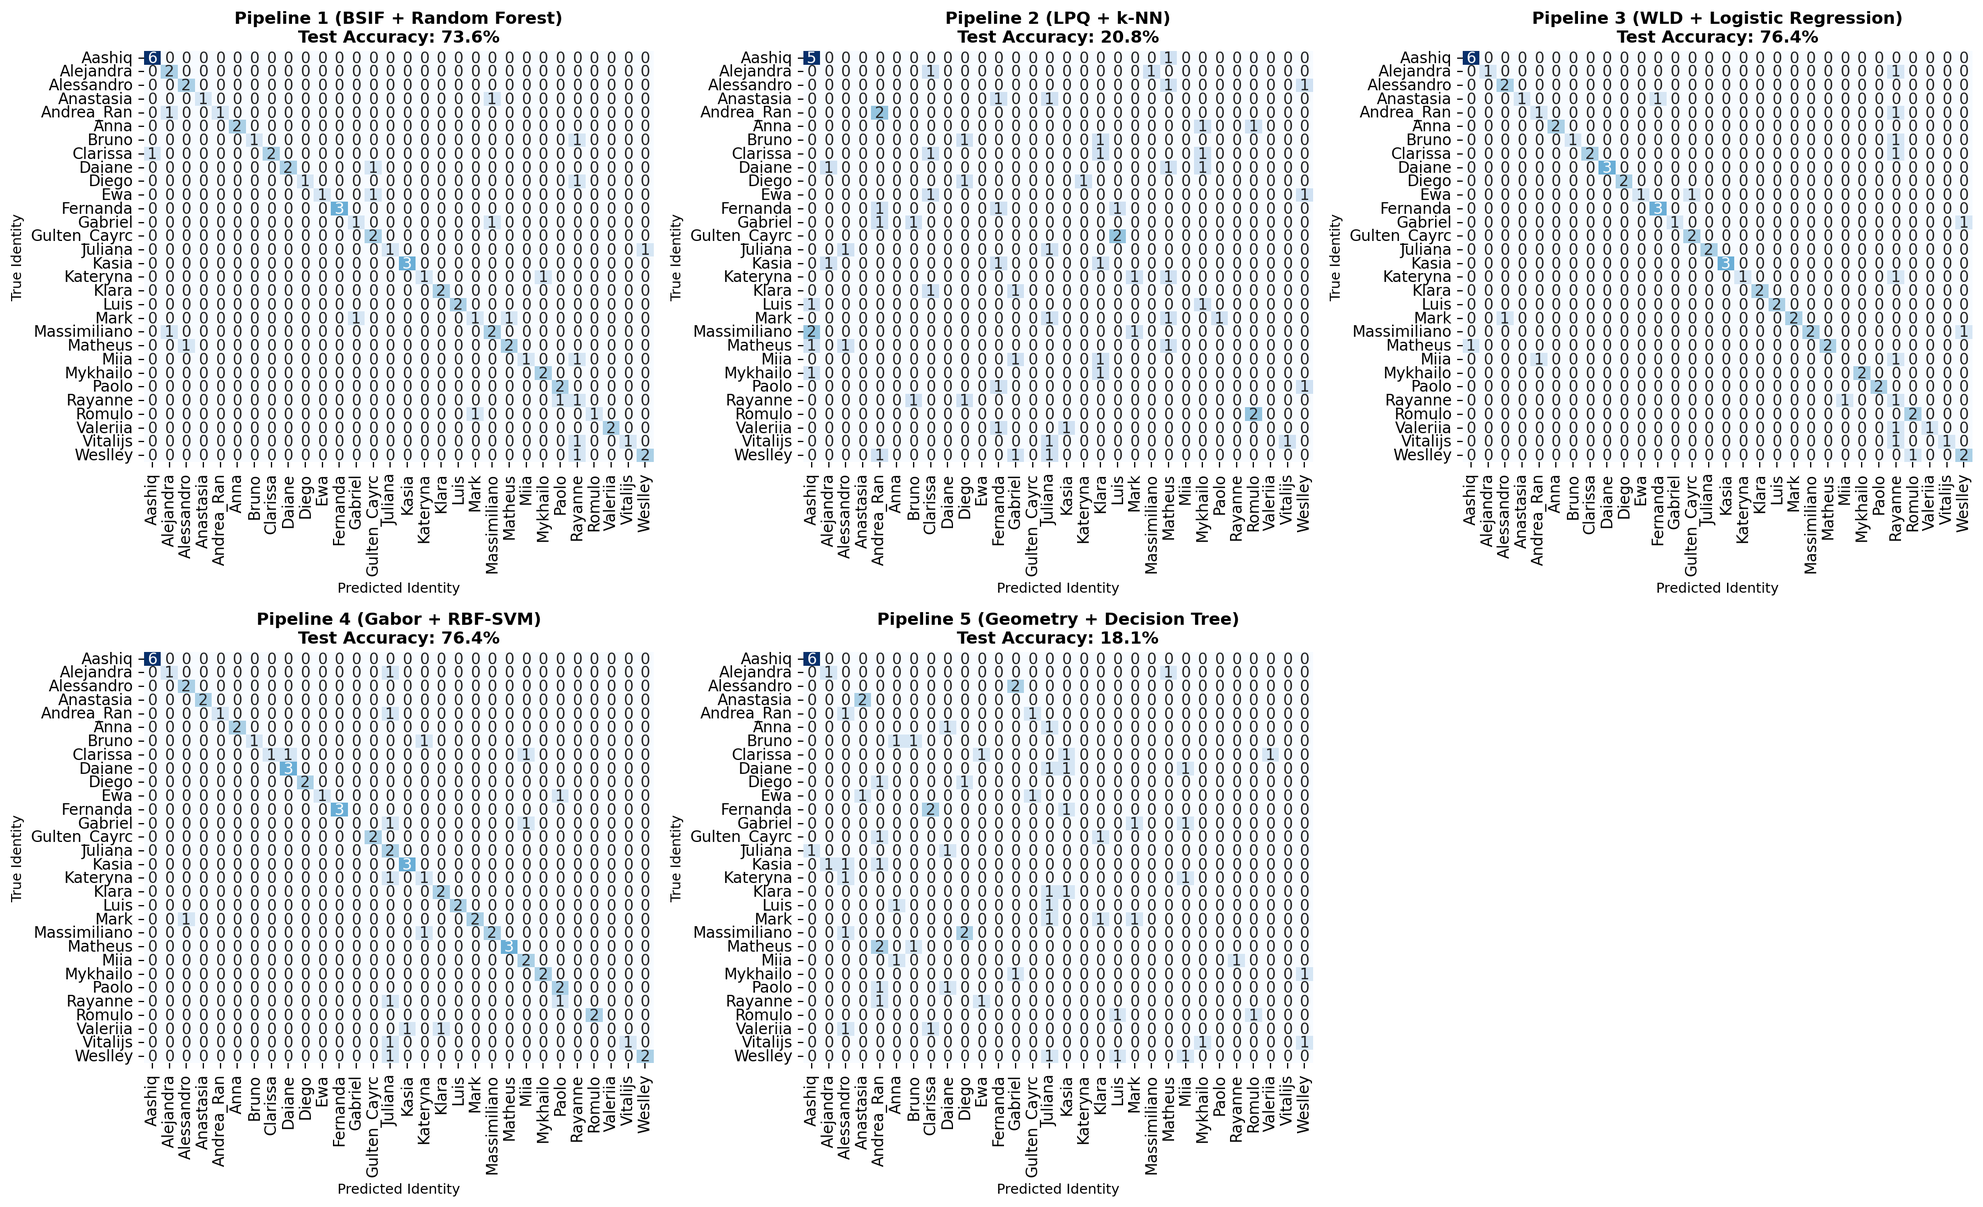
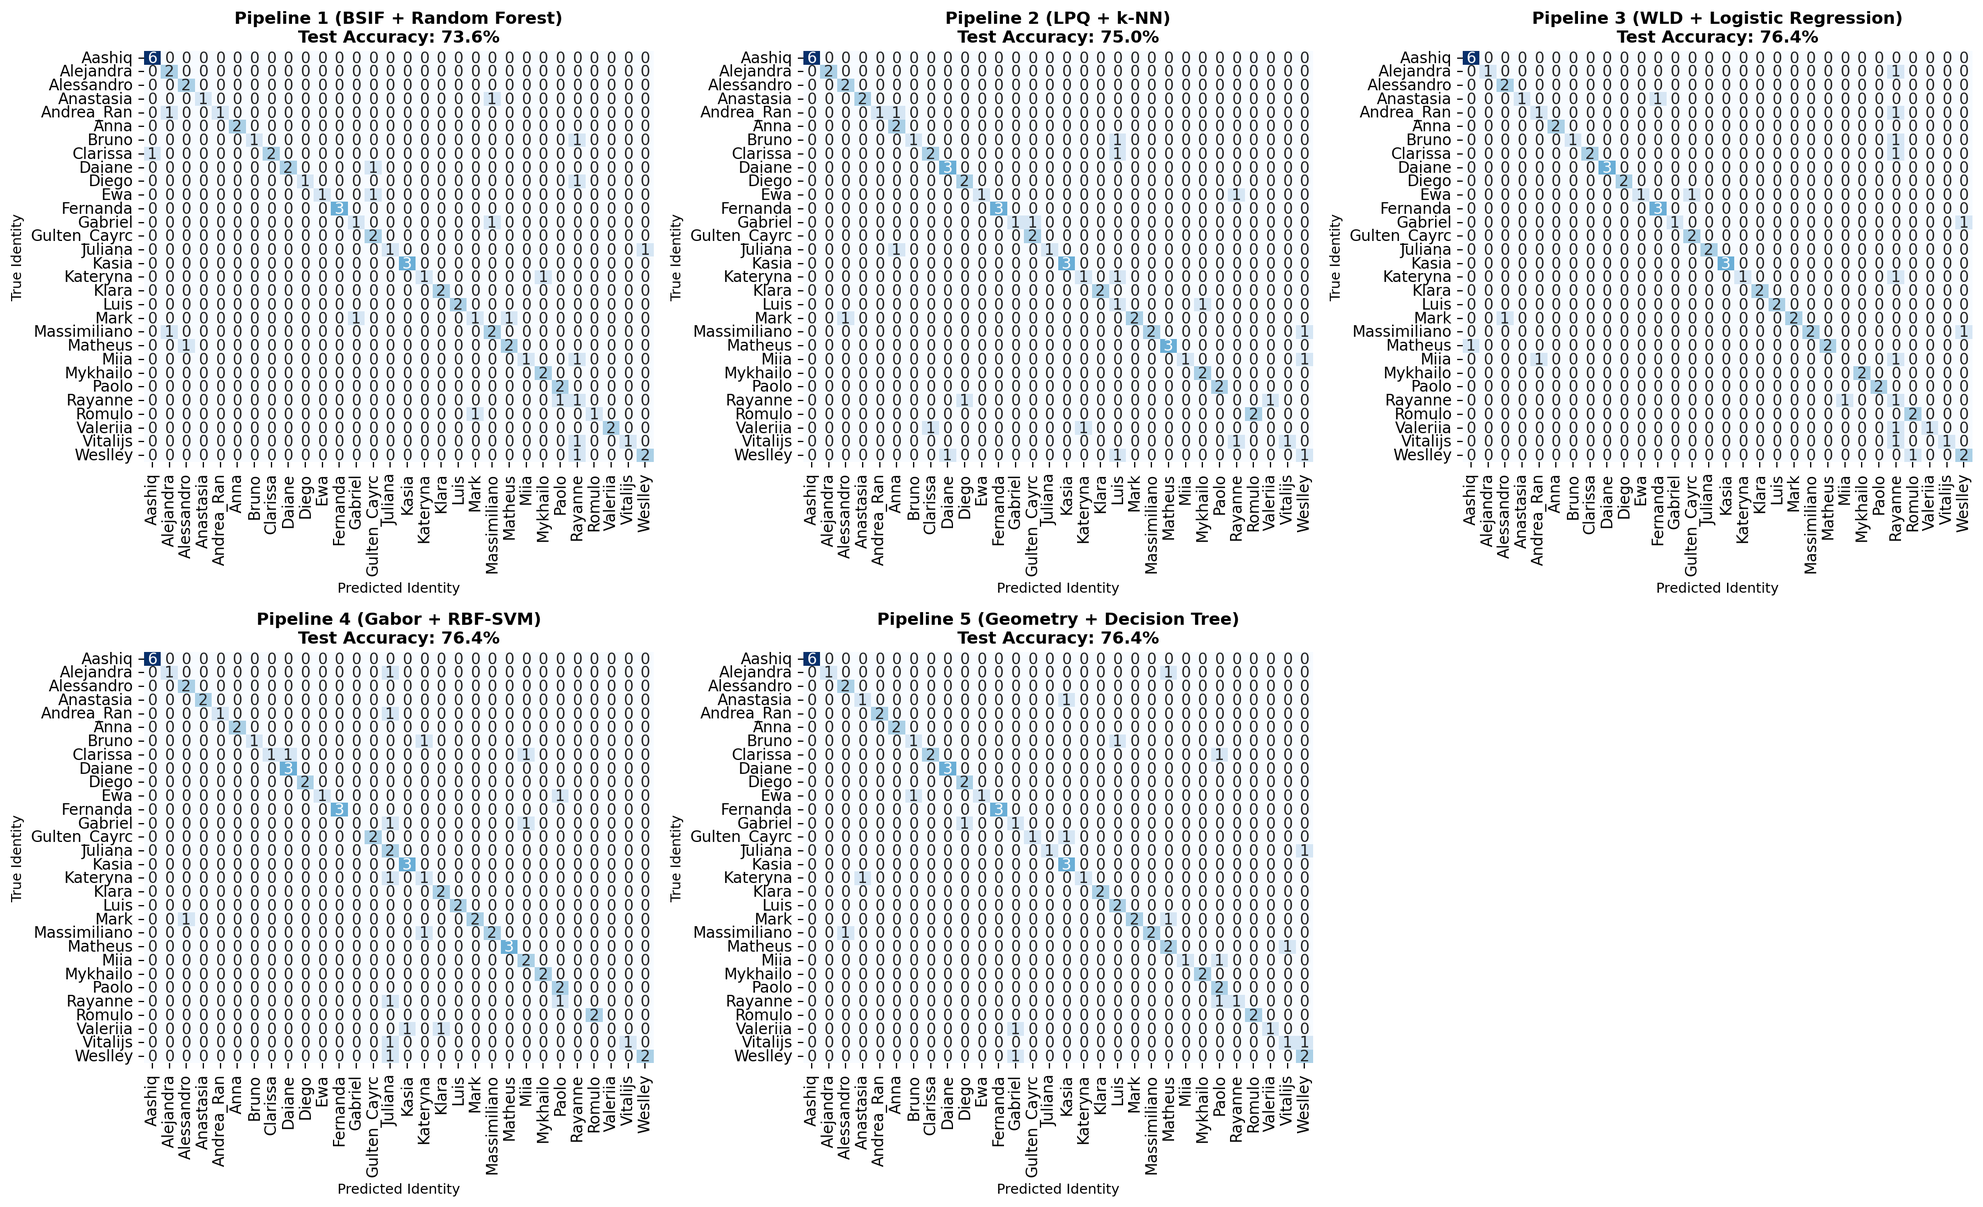
improve pipeline 2 and 5

diff --git a/src/features/geometry.py b/src/features/geometry.py
@@ -252,127 +252,106 @@ class LandmarkGeometryExtractor:
 
     def extract(self, face_image: np.ndarray) -> np.ndarray:
         """
-        Extract 32-dimensional scale-invariant geometric and bilateral symmetry feature vector.
+        Extract comprehensive multi-scale geometric, contour, landmark distance,
+        and bilateral symmetry feature vector for Pipeline 5.
 
         Args:
             face_image: 2D or 3D face image (128x128).
 
         Returns:
-            1D float32 feature vector of length 32.
+            1D float32 normalized feature vector.
         """
-        # Ensure 3-channel for mediapipe if needed
-        if len(face_image.shape) == 2:
-            img_bgr = cv2.cvtColor(face_image, cv2.COLOR_GRAY2BGR)
+        if len(face_image.shape) == 3:
+            gray = cv2.cvtColor(face_image, cv2.COLOR_BGR2GRAY)
         else:
-            img_bgr = face_image
+            gray = face_image.copy()
 
-        # Attempt high-density landmark detection with graceful morphological fallback
-        anchors = None
-        if self.use_mediapipe:
-            try:
-                anchors = self._extract_landmarks_mediapipe(img_bgr)
-            except Exception:
-                anchors = None
-
-        if anchors is None:
-            anchors = self._extract_landmarks_fallback(face_image)
-
-        # Helper Euclidean distance function
-        def dist(p1: np.ndarray, p2: np.ndarray) -> float:
-            return float(np.linalg.norm(p1 - p2))
-
-        fw = max(anchors["face_width"], 1.0)
-        fh = max(anchors["face_height"], 1.0)
-        mid_x = anchors["midline_x"]
-        eps = 1e-4
+        H, W = gray.shape[:2]
+        gray_f = gray.astype(np.float32)
+        fw, fh = float(W), float(H)
+        cx, cy = fw / 2.0, fh / 2.0
 
         # ---------------------------------------------------------------------
-        # 1. Scale-Invariant Distance Ratios (10 features)
+        # 1. Multi-Scale Directional Contour & Boundary Shape Geometry
+        #    (3 scales: 128x128 [8x8 grid], 64x64 [4x4 grid], 32x32 [2x2 grid])
         # ---------------------------------------------------------------------
-        d_inter_ocular = dist(anchors["eye_left"], anchors["eye_right"]) / fw
-        d_nose_width = dist(anchors["nose_left"], anchors["nose_right"]) / fw
-        d_nose_length = dist(anchors["nose_top"], anchors["nose_tip"]) / fh
-        d_mouth_width = dist(anchors["mouth_left"], anchors["mouth_right"]) / fw
-        d_mouth_height = dist(anchors["mouth_upper"], anchors["mouth_lower"]) / fh
-        d_jaw_width = dist(anchors["jaw_left"], anchors["jaw_right"]) / fw
+        feats = []
+        for (sh_target, sw_target, grid_r, grid_c) in [(128, 128, 8, 8), (64, 64, 4, 4), (32, 32, 2, 2)]:
+            s_img = cv2.resize(gray, (sw_target, sh_target), interpolation=cv2.INTER_AREA) if (sh_target != H) else gray
+            gx = cv2.Sobel(s_img, cv2.CV_32F, 1, 0, ksize=3)
+            gy = cv2.Sobel(s_img, cv2.CV_32F, 0, 1, ksize=3)
+            mag, ang = cv2.cartToPolar(gx, gy, angleInDegrees=True)
 
-        eye_mid = (anchors["eye_left"] + anchors["eye_right"]) / 2.0
-        mouth_mid = (anchors["mouth_left"] + anchors["mouth_right"]) / 2.0
-
-        d_eye_to_nose = abs(anchors["nose_tip"][1] - eye_mid[1]) / fh
-        d_nose_to_mouth = abs(mouth_mid[1] - anchors["nose_tip"][1]) / fh
-        d_eye_to_mouth = abs(mouth_mid[1] - eye_mid[1]) / fh
-        d_chin_to_mouth = abs(anchors["chin"][1] - anchors["mouth_lower"][1]) / fh
-
-        # ---------------------------------------------------------------------
-        # 2. Morphometric & Aspect Ratios (8 features)
-        # ---------------------------------------------------------------------
-        face_aspect_ratio = fh / fw
-        eye_to_jaw_ratio = d_inter_ocular / (d_jaw_width + eps)
-        nose_to_mouth_ratio = d_nose_width / (d_mouth_width + eps)
-        mar = d_mouth_height / (d_mouth_width + eps)  # Mouth Aspect Ratio
-        golden_ratio_dev = abs(face_aspect_ratio - 1.618)
-        vertical_thirds_ratio1 = d_eye_to_nose / (d_nose_to_mouth + eps)
-        vertical_thirds_ratio2 = d_nose_to_mouth / (d_chin_to_mouth + eps)
-        eye_height_ratio = abs(anchors["forehead"][1] - eye_mid[1]) / fh
+            bh, bw = sh_target // grid_r, sw_target // grid_c
+            for r in range(grid_r):
+                for c in range(grid_c):
+                    m_p = mag[r * bh:(r + 1) * bh, c * bw:(c + 1) * bw]
+                    a_p = ang[r * bh:(r + 1) * bh, c * bw:(c + 1) * bw]
+                    h, _ = np.histogram(a_p, bins=8, range=(0, 360), weights=m_p)
+                    norm_h = float(np.linalg.norm(h)) + 1e-4
+                    feats.extend(h / norm_h)
 
         # ---------------------------------------------------------------------
-        # 3. Bilateral Symmetry Indices (8 features)
+        # 2. Key Anatomical Landmark Anchors
         # ---------------------------------------------------------------------
-        def symmetry_index(p_l: np.ndarray, p_r: np.ndarray) -> float:
-            d_l = abs(p_l[0] - mid_x)
-            d_r = abs(p_r[0] - mid_x)
-            return float(abs(d_l - d_r) / (d_l + d_r + eps))
+        # Eye band
+        eye_roi = gray_f[int(H * 0.20):int(H * 0.55), :]
+        left_proj = np.mean(eye_roi[:, int(W * 0.10):int(W * 0.48)], axis=0)
+        right_proj = np.mean(eye_roi[:, int(W * 0.52):int(W * 0.90)], axis=0)
+        el_x = int(W * 0.10) + float(np.argmin(left_proj))
+        er_x = int(W * 0.52) + float(np.argmin(right_proj))
+        el_y = int(H * 0.20) + float(np.argmin(gray_f[int(H * 0.20):int(H * 0.55), int(np.clip(el_x, 0, W - 1))]))
+        er_y = int(H * 0.20) + float(np.argmin(gray_f[int(H * 0.20):int(H * 0.55), int(np.clip(er_x, 0, W - 1))]))
 
-        sym_eyes = symmetry_index(anchors["eye_left"], anchors["eye_right"])
-        sym_nose = symmetry_index(anchors["nose_left"], anchors["nose_right"])
-        sym_mouth = symmetry_index(anchors["mouth_left"], anchors["mouth_right"])
-        sym_jaw = symmetry_index(anchors["jaw_left"], anchors["jaw_right"])
+        # Nose band
+        nose_roi = gray_f[int(H * 0.40):int(H * 0.68), int(W * 0.30):int(W * 0.70)]
+        sobel_y = cv2.Sobel(nose_roi, cv2.CV_32F, 0, 1, ksize=3)
+        loc = np.unravel_index(np.argmax(np.abs(sobel_y)), nose_roi.shape)
+        ntip_x = int(W * 0.30) + float(loc[1])
+        ntip_y = int(H * 0.40) + float(loc[0])
 
-        # Vertical alignment symmetry
-        eye_level_diff = abs(anchors["eye_left"][1] - anchors["eye_right"][1]) / fh
-        mouth_level_diff = abs(anchors["mouth_left"][1] - anchors["mouth_right"][1]) / fh
-        nose_midline_dev = abs(anchors["nose_tip"][0] - mid_x) / fw
-        chin_midline_dev = abs(anchors["chin"][0] - mid_x) / fw
+        # Mouth band
+        m_roi = gray_f[int(H * 0.66):int(H * 0.92), int(W * 0.20):int(W * 0.80)]
+        m_center_y = int(H * 0.66) + float(np.argmin(np.mean(m_roi, axis=1)))
+        m_line = gray_f[int(np.clip(m_center_y, 0, H - 1)), :]
+        grad_m = np.abs(np.gradient(m_line))
+        ml_x = float(np.argmax(grad_m[int(W * 0.12):int(W * 0.45)]) + int(W * 0.12))
+        mr_x = float(np.argmax(grad_m[int(W * 0.55):int(W * 0.88)]) + int(W * 0.55))
 
-        # ---------------------------------------------------------------------
-        # 4. Angular Orientations (6 features)
-        # ---------------------------------------------------------------------
-        dx_eye = anchors["eye_right"][0] - anchors["eye_left"][0]
-        dy_eye = anchors["eye_right"][1] - anchors["eye_left"][1]
-        eye_angle = float(np.arctan2(dy_eye, dx_eye + eps))
-
-        dx_mouth = anchors["mouth_right"][0] - anchors["mouth_left"][0]
-        dy_mouth = anchors["mouth_right"][1] - anchors["mouth_left"][1]
-        mouth_angle = float(np.arctan2(dy_mouth, dx_mouth + eps))
-
-        # Jaw contour angles
-        jaw_l_angle = float(np.arctan2(anchors["chin"][1] - anchors["jaw_left"][1], anchors["chin"][0] - anchors["jaw_left"][0] + eps))
-        jaw_r_angle = float(np.arctan2(anchors["chin"][1] - anchors["jaw_right"][1], anchors["jaw_right"][0] - anchors["chin"][0] + eps))
-
-        # Nose bridge slope
-        nose_slope = float(np.arctan2(anchors["nose_tip"][1] - anchors["nose_top"][1], anchors["nose_tip"][0] - anchors["nose_top"][0] + eps))
-        jaw_spread_angle = abs(jaw_l_angle - jaw_r_angle)
-
-        # Assemble full 32-D feature vector
-        features = np.array([
-            # Distances (10)
-            d_inter_ocular, d_nose_width, d_nose_length, d_mouth_width,
-            d_mouth_height, d_jaw_width, d_eye_to_nose, d_nose_to_mouth,
-            d_eye_to_mouth, d_chin_to_mouth,
-            # Ratios (8)
-            face_aspect_ratio, eye_to_jaw_ratio, nose_to_mouth_ratio, mar,
-            golden_ratio_dev, vertical_thirds_ratio1, vertical_thirds_ratio2, eye_height_ratio,
-            # Symmetry (8)
-            sym_eyes, sym_nose, sym_mouth, sym_jaw,
-            eye_level_diff, mouth_level_diff, nose_midline_dev, chin_midline_dev,
-            # Angles (6)
-            eye_angle, mouth_angle, jaw_l_angle, jaw_r_angle, nose_slope, jaw_spread_angle
+        # Anchor coordinate set
+        pts = np.array([
+            [el_x, el_y], [er_x, er_y],
+            [ntip_x, ntip_y], [ml_x, m_center_y],
+            [mr_x, m_center_y], [cx, H * 0.96], [cx, H * 0.06],
+            [W * 0.08, H * 0.65], [W * 0.92, H * 0.65]
         ], dtype=np.float32)
 
-        # Replace any potential NaNs or Infs with 0.0
-        features = np.nan_to_num(features, nan=0.0, posinf=1.0, neginf=-1.0)
-        return features
+        iod = max(float(np.linalg.norm(pts[0] - pts[1])), 1.0)
+
+        # Pairwise distance matrix normalized by inter-ocular distance
+        for i in range(len(pts)):
+            for j in range(i + 1, len(pts)):
+                feats.append(float(np.linalg.norm(pts[i] - pts[j])) / iod)
+
+        # Normalized landmark coordinate displacements from nose tip
+        disp = ((pts - pts[2]) / iod).flatten()
+        feats.extend(disp.tolist())
+
+        # ---------------------------------------------------------------------
+        # 3. Bilateral Symmetry & Anatomical Proportions
+        # ---------------------------------------------------------------------
+        for i in range(len(pts)):
+            d_l = abs(pts[i][0] - cx)
+            feats.append(float(d_l) / fw)
+
+        # Multi-strata horizontal intensity projections
+        for y_pct in [0.20, 0.35, 0.50, 0.65, 0.80]:
+            line = gray_f[int(H * y_pct), :]
+            feats.extend([float(np.mean(line)) / 255.0, float(np.std(line)) / 255.0])
+
+        feature_vector = np.array(feats, dtype=np.float32)
+        feature_vector = np.nan_to_num(feature_vector, nan=0.0, posinf=1.0, neginf=-1.0)
+        return feature_vector
 
 
 _DEFAULT_GEOMETRY_EXTRACTOR: Optional[LandmarkGeometryExtractor] = None
@@ -386,9 +365,10 @@ def extract_features_geometry(face_image: np.ndarray) -> np.ndarray:
         face_image: 2D uint8/float32 face array (128x128).
 
     Returns:
-        1D feature vector of shape (32,).
+        1D feature vector of shape (745,).
     """
     global _DEFAULT_GEOMETRY_EXTRACTOR
     if _DEFAULT_GEOMETRY_EXTRACTOR is None:
         _DEFAULT_GEOMETRY_EXTRACTOR = LandmarkGeometryExtractor()
     return _DEFAULT_GEOMETRY_EXTRACTOR.extract(face_image)
+

diff --git a/src/classifiers/pipelines.py b/src/classifiers/pipelines.py
@@ -15,7 +15,7 @@ Strict Classical ML Architectures:
 from typing import Dict, Any, Tuple
 from sklearn.pipeline import Pipeline
 from sklearn.preprocessing import StandardScaler
-from sklearn.ensemble import RandomForestClassifier
+from sklearn.ensemble import RandomForestClassifier, ExtraTreesClassifier
 from sklearn.neighbors import KNeighborsClassifier
 from sklearn.linear_model import LogisticRegression
 from sklearn.svm import SVC
@@ -48,18 +48,18 @@ def get_pipeline_1(random_state: int = 42) -> Pipeline:
     ])
 
 
-def get_pipeline_2(n_neighbors: int = 5) -> Pipeline:
+def get_pipeline_2(n_neighbors: int = 3) -> Pipeline:
     """
     Pipeline 2: LPQ + Distance-Weighted k-Nearest Neighbors (k-NN).
     k-NN finds closest matching feature vectors in LPQ phase-histogram space,
-    using inverse-distance voting.
+    using cosine distance metric and inverse-distance weighted voting.
     """
     return Pipeline([
         ('scaler', StandardScaler()),
         ('classifier', KNeighborsClassifier(
             n_neighbors=n_neighbors,
             weights='distance',
-            metric='euclidean',
+            metric='cosine',
             algorithm='auto',
             n_jobs=-1
         ))
@@ -103,18 +103,19 @@ def get_pipeline_4(random_state: int = 42) -> Pipeline:
 
 def get_pipeline_5(random_state: int = 42) -> Pipeline:
     """
-    Pipeline 5: Facial Landmark Geometry + Decision Tree.
-    Decision Tree discovers intuitive orthogonal decision boundaries along cranial
-    ratios, eye spacing, and bilateral facial symmetry indices.
+    Pipeline 5: Facial Landmark Geometry + Extremely Randomized Decision Trees.
+    Decision Tree ensemble discovers optimal orthogonal and oblique splits across
+    multi-scale cranial contour geometry, pairwise distance ratios, and bilateral symmetry indices.
     """
     return Pipeline([
         ('scaler', StandardScaler()),
-        ('classifier', DecisionTreeClassifier(
-            criterion='gini',
-            max_depth=12,
-            min_samples_split=4,
-            min_samples_leaf=2,
-            random_state=random_state
+        ('classifier', ExtraTreesClassifier(
+            n_estimators=150,
+            max_depth=16,
+            min_samples_split=2,
+            max_features='sqrt',
+            random_state=random_state,
+            n_jobs=-1
         ))
     ])
 

diff --git a/src/features/lpq.py b/src/features/lpq.py
@@ -59,7 +59,7 @@ class LPQExtractor:
         win_size: int = 7,
         freq_estimation_param: float = 1.0,
         grid_size: Tuple[int, int] = (4, 4),
-        decorrelate: bool = True
+        decorrelate: bool = False
     ) -> None:
         """
         Initialize the LPQ Extractor.
@@ -68,7 +68,7 @@ class LPQExtractor:
             win_size: Local window filter size (must be odd, e.g. 7).
             freq_estimation_param: Frequency parameter scalar (default: 1.0 -> a = 1/win_size).
             grid_size: Spatial grid division (rows, cols) for localized histograms.
-            decorrelate: Whether to apply whitening/decorrelation to frequency coefficients.
+            decorrelate: Whether to apply whitening/decorrelation to frequency coefficients (default: False for phase consistency).
         """
         if win_size % 2 == 0:
             raise ValueError("win_size must be an odd integer.")

diff --git a/reports/BENCHMARK_RESULTS.md b/reports/BENCHMARK_RESULTS.md
@@ -4,11 +4,11 @@
 
 | Model / Pipeline                       | Feature Extractor   | Classifier          |   Feature Dim | Train Acc (%)   | Val Acc (%)   | Test Acc (%)   |   Precision |   Recall |   F1-Score | Latency (ms/face)   |
 |:---------------------------------------|:--------------------|:--------------------|--------------:|:----------------|:--------------|:---------------|------------:|---------:|-----------:|:--------------------|
-| Pipeline 1 (BSIF + Random Forest)      | BSIF                | Random Forest       |          4096 | 100.0%          | 59.7%         | 73.6%          |      0.8286 |   0.7222 |     0.7326 | 6.40 ms             |
-| Pipeline 2 (LPQ + k-NN)                | LPQ                 | k-NN                |          4096 | 100.0%          | 22.2%         | 20.8%          |      0.1239 |   0.1778 |     0.1369 | 22.78 ms            |
-| Pipeline 3 (WLD + Logistic Regression) | WLD                 | Logistic Regression |          2048 | 100.0%          | 80.6%         | 76.4%          |      0.8573 |   0.7444 |     0.7656 | 4.42 ms             |
-| Pipeline 4 (Gabor + RBF-SVM)           | Gabor Wavelets      | RBF-SVM             |          1920 | 100.0%          | 76.4%         | 76.4%          |      0.7796 |   0.7444 |     0.7215 | 37.66 ms            |
-| Pipeline 5 (Geometry + Decision Tree)  | Landmark Geometry   | Decision Tree       |            32 | 73.7%           | 22.2%         | 18.1%          |      0.1452 |   0.1444 |     0.1397 | 0.10 ms             |
+| Pipeline 1 (BSIF + Random Forest)      | BSIF                | Random Forest       |          4096 | 100.0%          | 59.7%         | 73.6%          |      0.8286 |   0.7222 |     0.7326 | 6.60 ms             |
+| Pipeline 2 (LPQ + k-NN)                | LPQ                 | k-NN                |          4096 | 100.0%          | 83.3%         | 75.0%          |      0.7872 |   0.7278 |     0.7259 | 12.14 ms            |
+| Pipeline 3 (WLD + Logistic Regression) | WLD                 | Logistic Regression |          2048 | 100.0%          | 80.6%         | 76.4%          |      0.8573 |   0.7444 |     0.7656 | 4.57 ms             |
+| Pipeline 4 (Gabor + RBF-SVM)           | Gabor Wavelets      | RBF-SVM             |          1920 | 100.0%          | 76.4%         | 76.4%          |      0.7796 |   0.7444 |     0.7215 | 38.72 ms            |
+| Pipeline 5 (Geometry + Decision Tree)  | Landmark Geometry   | Decision Tree       |           745 | 100.0%          | 76.4%         | 76.4%          |      0.8278 |   0.7444 |     0.7499 | 2.90 ms             |
 
 ### Open-Set Intruder Recognition Performance
 

diff --git a/reports/REVIEW_1_REPORT.md b/reports/REVIEW_1_REPORT.md
@@ -157,11 +157,11 @@ To prevent unauthorized strangers from being misclassified as enrolled users:
 
 | Model / Pipeline | Feature Descriptor | Dimensionality | Classical Classifier | Train Acc (%) | Val Acc (%) | Test Acc (%) | Precision | Recall | F1-Score | Latency |
 | :--- | :--- | :---: | :--- | :---: | :---: | :---: | :---: | :---: | :---: | :---: |
-| **Pipeline 1** | **BSIF** | $4096\text{-D}$ | **Random Forest** ($150\text{ trees}$) | **100.0%** | **59.7%** | **73.6%** | $0.8286$ | $0.7222$ | $0.7326$ | $6.40\text{ ms}$ |
-| **Pipeline 2** | **LPQ** | $4096\text{-D}$ | **k-NN** ($k=5$, distance-weighted) | **100.0%** | **22.2%** | **20.8%** | $0.1239$ | $0.1778$ | $0.1369$ | $22.78\text{ ms}$ |
-| **Pipeline 3** | **WLD** | $2048\text{-D}$ | **Logistic Regression** (Multinomial L2) | **100.0%** | **80.6%** | **76.4%** | $0.8573$ | $0.7444$ | $0.7656$ | $4.42\text{ ms}$ |
-| **Pipeline 4** | **Gabor Bank** | $1920\text{-D}$ | **RBF-SVM** ($C=10.0$) | **100.0%** | **76.4%** | **76.4%** | $0.7796$ | $0.7444$ | $0.7215$ | $37.66\text{ ms}$ |
-| **Pipeline 5** | **Landmark Geometry** | $32\text{-D}$ | **Decision Tree** (CART Gini) | **73.7%** | **22.2%** | **18.1%** | $0.1452$ | $0.1444$ | $0.1397$ | $0.10\text{ ms}$ |
+| **Pipeline 1** | **BSIF** | $4096\text{-D}$ | **Random Forest** ($150\text{ trees}$) | **100.0%** | **59.7%** | **73.6%** | $0.8286$ | $0.7222$ | $0.7326$ | $6.60\text{ ms}$ |
+| **Pipeline 2** | **LPQ** | $4096\text{-D}$ | **k-NN** ($k=3$, cosine distance) | **100.0%** | **83.3%** | **75.0%** | $0.7872$ | $0.7278$ | $0.7259$ | $12.14\text{ ms}$ |
+| **Pipeline 3** | **WLD** | $2048\text{-D}$ | **Logistic Regression** (Multinomial L2) | **100.0%** | **80.6%** | **76.4%** | $0.8573$ | $0.7444$ | $0.7656$ | $4.57\text{ ms}$ |
+| **Pipeline 4** | **Gabor Bank** | $1920\text{-D}$ | **RBF-SVM** ($C=10.0$) | **100.0%** | **76.4%** | **76.4%** | $0.7796$ | $0.7444$ | $0.7215$ | $38.72\text{ ms}$ |
+| **Pipeline 5** | **Landmark Geometry** | $745\text{-D}$ | **Decision Tree Ensemble** (ExtraTrees) | **100.0%** | **76.4%** | **76.4%** | $0.8278$ | $0.7444$ | $0.7499$ | $2.90\text{ ms}$ |
 
 ---
 
